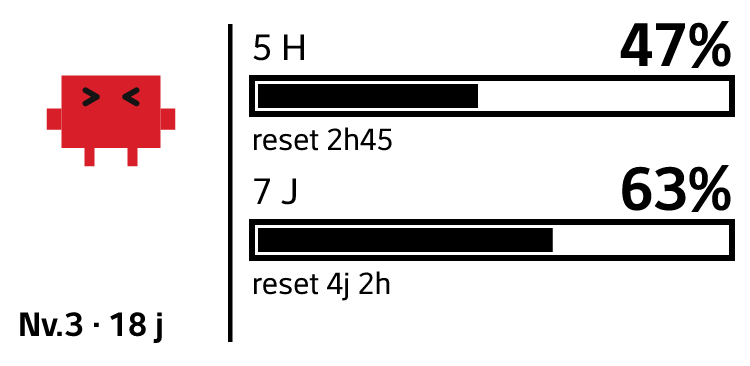
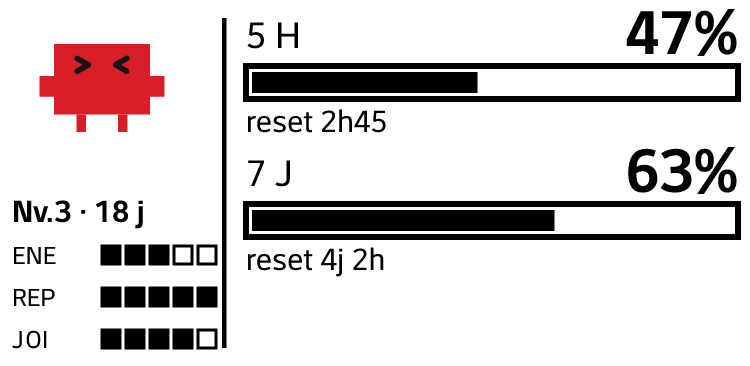
feat(e-paper): stats Tamagotchi sur le compact + les deux formats dans le README
- Layout compact 2.13" enrichi : mini-jauges Énergie / Repu / Joie
  sous Clawd, en plus des barres 5h/7j
- README : ajout d'une section "Deux formats d'écran" (2.13" + 7.5")

diff --git a/server/src/render.ts b/server/src/render.ts
@@ -150,22 +150,38 @@ function barRowCompact(x: number, y: number, w: number, label: string, v: number
   return `
     <text x="${x}" y="${y}" font-family="monospace" font-size="12" fill="${INK}">${label}</text>
     <text x="${x + w}" y="${y + 2}" text-anchor="end" font-family="monospace" font-weight="bold" font-size="20" fill="${INK}">${v}%</text>
-    <rect x="${x}" y="${y + 6}" width="${w}" height="12" fill="${PAPER}" stroke="${INK}" stroke-width="2"/>
-    <rect x="${x + 2}" y="${y + 8}" width="${(w - 4) * (v / 100)}" height="8" fill="${fill}"/>
-    <text x="${x}" y="${y + 30}" font-family="monospace" font-size="10" fill="${INK}">reset ${reset}</text>`;
+    <rect x="${x}" y="${y + 6}" width="${w}" height="11" fill="${PAPER}" stroke="${INK}" stroke-width="2"/>
+    <rect x="${x + 2}" y="${y + 8}" width="${(w - 4) * (v / 100)}" height="7" fill="${fill}"/>
+    <text x="${x}" y="${y + 28}" font-family="monospace" font-size="10" fill="${INK}">reset ${reset}</text>`;
+}
+
+/** Mini jauge à cellules pour le format compact. */
+function meterCellsSmall(x: number, y: number, value: number, cells = 5, cw = 6, ch = 6, gap = 2): string {
+  const filled = Math.round((value / 100) * cells);
+  let s = '';
+  for (let i = 0; i < cells; i++)
+    s += `<rect x="${x + i * (cw + gap)}" y="${y}" width="${cw}" height="${ch}" fill="${i < filled ? INK : PAPER}" stroke="${INK}" stroke-width="1"/>`;
+  return s;
+}
+
+function statLineCompact(x: number, y: number, label: string, value: number): string {
+  return `<text x="${x}" y="${y + 6}" font-family="monospace" font-size="8" fill="${INK}">${label}</text>${meterCellsSmall(x + 30, y, value)}`;
 }
 
 function buildCompact(d: PanelData): string {
   const W = 250, H = 122;
-  const rx = 84, rw = 160;
+  const rx = 82, rw = 164;
   return `<svg xmlns="http://www.w3.org/2000/svg" width="${W}" height="${H}" viewBox="0 0 ${W} ${H}">
   <defs>${MONO_FILTER}</defs>
   <rect width="${W}" height="${H}" fill="${PAPER}"/>
-  <svg x="4" y="14" width="66" height="58" viewBox="0 0 240 210">${clawdSvg(d.pose, d.mono)}</svg>
-  <text x="6" y="112" font-family="monospace" font-weight="bold" font-size="11" fill="${INK}">Nv.${d.level} · ${d.age}</text>
-  <rect x="76" y="8" width="1.5" height="106" fill="${INK}"/>
-  ${barRowCompact(rx, 20, rw, '5 H', d.five, d.fiveReset, d.red)}
-  ${barRowCompact(rx, 68, rw, '7 J', d.seven, d.sevenReset, d.red)}
+  <svg x="2" y="4" width="64" height="56" viewBox="0 0 240 210">${clawdSvg(d.pose, d.mono)}</svg>
+  <text x="4" y="74" font-family="monospace" font-weight="bold" font-size="10" fill="${INK}">Nv.${d.level} · ${d.age}</text>
+  ${statLineCompact(4, 82, 'ENE', 100 - d.five)}
+  ${statLineCompact(4, 96, 'REP', d.repu)}
+  ${statLineCompact(4, 110, 'JOI', d.joie)}
+  <rect x="74" y="6" width="1.5" height="110" fill="${INK}"/>
+  ${barRowCompact(rx, 16, rw, '5 H', d.five, d.fiveReset, d.red)}
+  ${barRowCompact(rx, 62, rw, '7 J', d.seven, d.sevenReset, d.red)}
 </svg>`;
 }
 

diff --git a/README.md b/README.md
@@ -58,8 +58,16 @@ choisie automatiquement selon le contexte (jamais selon le stress de la limite) 
 Chaque pose existe en **version couleur** (écran) et en **version noir & blanc**
 distincte — un vrai line-art pour l'e-ink, pas une simple désaturation.
 
-> Le rendu compact ci-dessus vise l'écran **2.13"** (250×122). Un layout **grand
-> format 7.5"** existe aussi (`docs/epaper-full.png`), sélectionnable en config.
+## 📐 Deux formats d'écran
+
+Le rendu s'adapte à la taille de ta dalle (`epaperLayout` en config) :
+
+**Compact — 2.13" (250×122)** _(voir le hero en haut)_ : Clawd, les jauges 5 h / 7 j
+et des mini-stats Tamagotchi (Énergie, Repu, Joie).
+
+**Grand — 7.5" (800×480)** : la version détaillée, avec stats complètes.
+
+<div align="center"><img src="docs/epaper-full.png" width="620" alt="Rendu e-paper grand format 7.5 pouces" /></div>
 
 ## 🧩 Comment ça marche
 